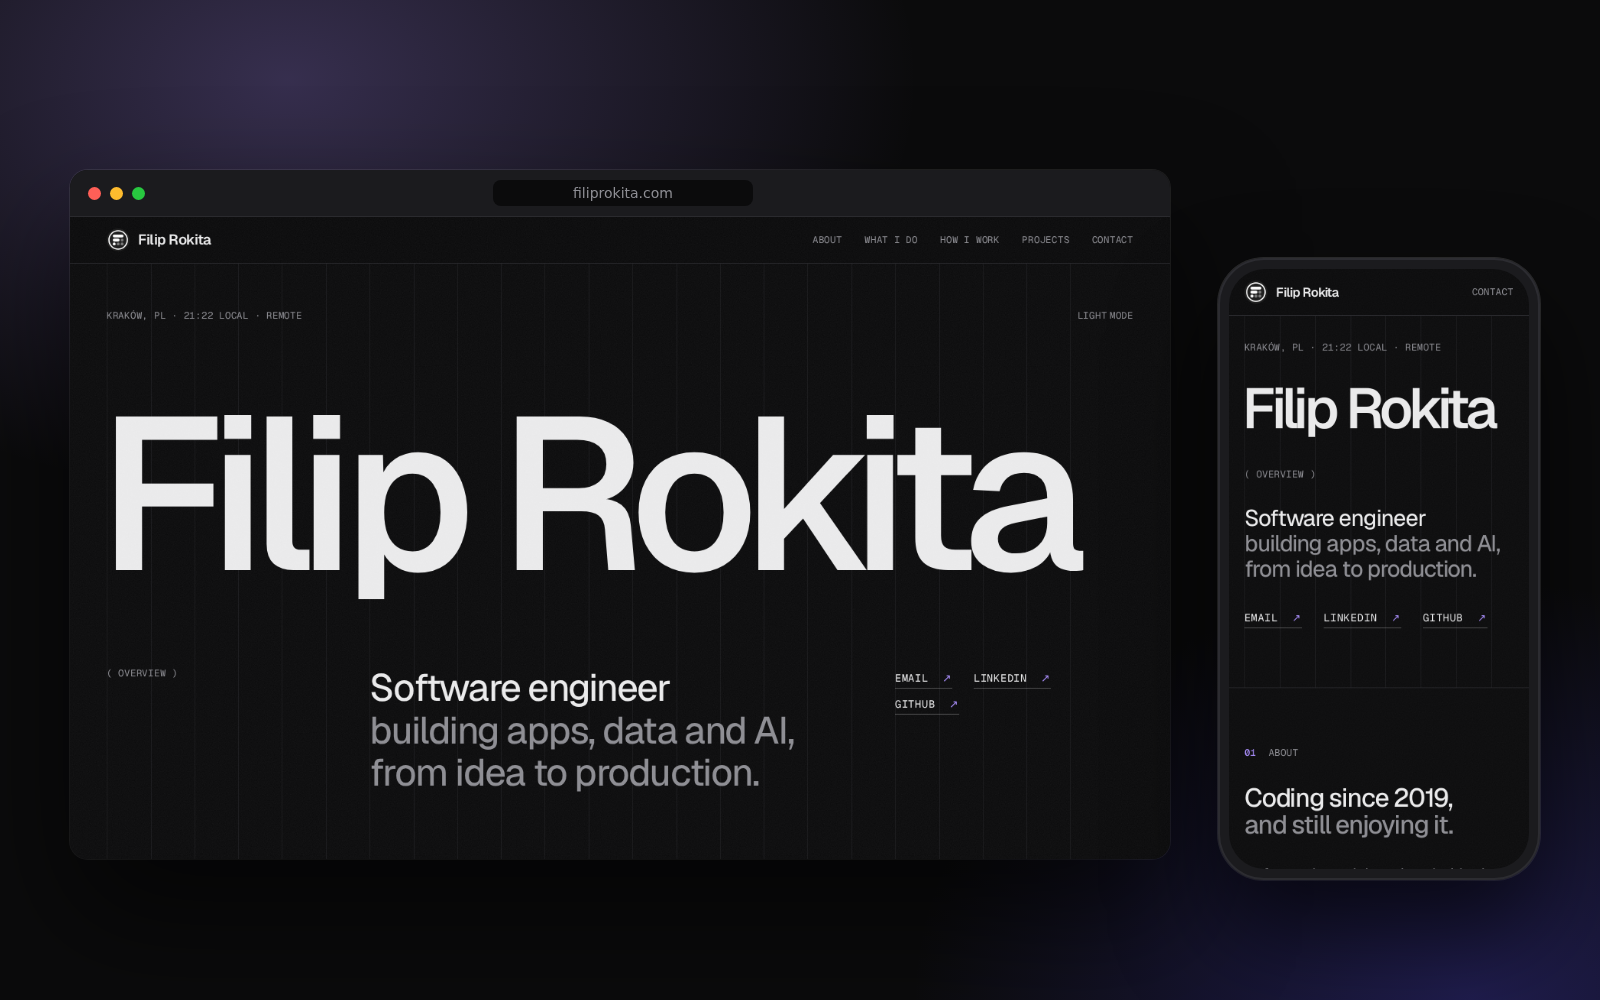
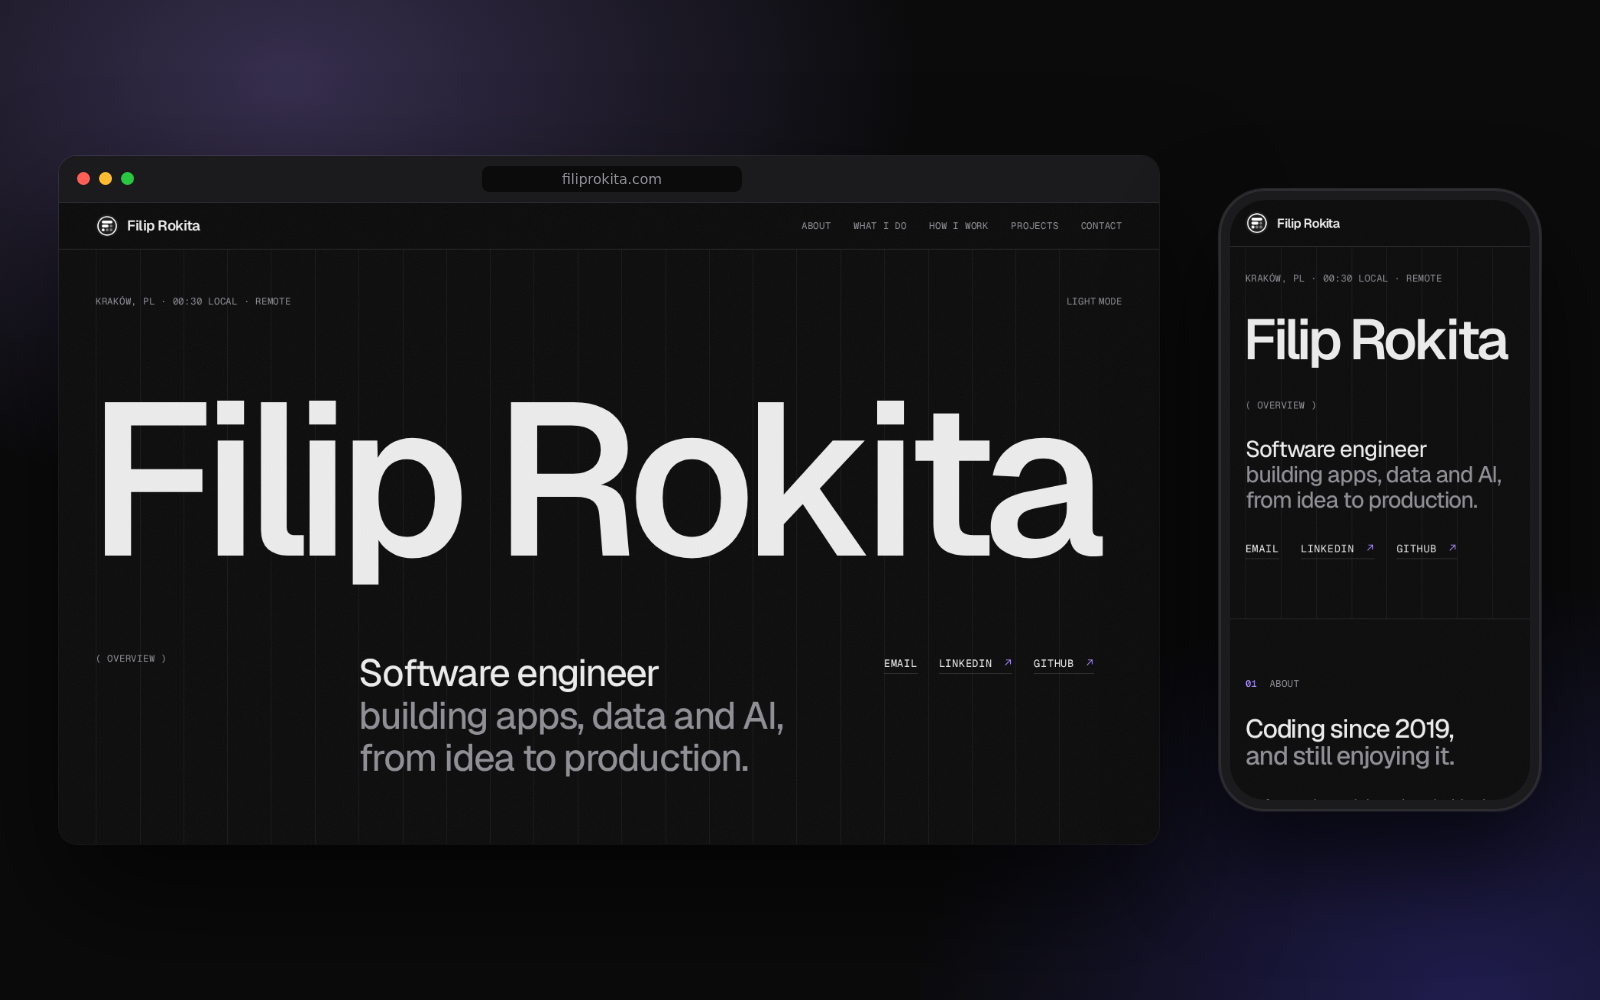
No menu on phones, shorter LinkedIn text
Phones show only the logo in the header. The LinkedIn link text is shorter. A stale comment is fixed.

diff --git a/e2e/shell.spec.ts b/e2e/shell.spec.ts
@@ -73,7 +73,7 @@ test.describe('without JavaScript', () => {
     await page.goto('/');
     await expect(page.getByRole('heading', { level: 1 })).toBeVisible();
     await expect(
-      page.getByRole('link', { name: 'Contact', exact: true }),
+      page.getByRole('link', { name: 'Email', exact: true }).first(),
     ).toBeVisible();
     for (const toggle of await page.locator('[data-theme-toggle]').all())
       await expect(toggle).toBeHidden();
@@ -106,19 +106,23 @@ test.describe('keyboard', () => {
 });
 
 test.describe('navigation', () => {
-  test('phones show only Contact, larger screens show every section', async ({
+  test('phones have no menu, larger screens show every section', async ({
     page,
   }, testInfo) => {
     await page.goto('/');
     const nav = page.getByRole('navigation', { name: 'Main' });
-    await expect(
-      nav.getByRole('link', { name: 'Contact', exact: true }),
-    ).toBeVisible();
-    const visible = testInfo.project.name === 'phone' ? 'hidden' : 'visible';
-    for (const name of ['About', 'What I do', 'How I work', 'Projects']) {
-      const link = nav.getByRole('link', { name });
-      if (visible === 'hidden') await expect(link).toBeHidden();
-      else await expect(link).toBeVisible();
+    if (testInfo.project.name === 'phone') {
+      await expect(nav).toBeHidden();
+      return;
+    }
+    for (const name of [
+      'About',
+      'What I do',
+      'How I work',
+      'Projects',
+      'Contact',
+    ]) {
+      await expect(nav.getByRole('link', { name, exact: true })).toBeVisible();
     }
   });
 });

diff --git a/design/preview.html b/design/preview.html
@@ -14,6 +14,11 @@
         height: 1000px;
         position: relative;
         overflow: hidden;
+        /* The browser window and the phone sit on one horizontal axis, centered. */
+        display: flex;
+        align-items: center;
+        justify-content: center;
+        gap: 60px;
         background:
           radial-gradient(
             900px 600px at 18% 8%,
@@ -29,9 +34,7 @@
         font-family: ui-sans-serif, system-ui, sans-serif;
       }
       .window {
-        position: absolute;
-        left: 70px;
-        top: 170px;
+        flex: none;
         width: 1100px;
         border-radius: 18px;
         overflow: hidden;
@@ -78,9 +81,7 @@
         width: 100%;
       }
       .phone {
-        position: absolute;
-        right: 60px;
-        bottom: 120px;
+        flex: none;
         width: 300px;
         border-radius: 46px;
         padding: 11px;

diff --git a/docs/design-system.md b/docs/design-system.md
@@ -131,7 +131,7 @@ focus ring style (`:focus-visible`), a faint static grain (not on phones, where 
 | Part | Where | Notes |
 | :--- | :--- | :--- |
 | Layout | `src/layouts/BaseLayout.astro` | Head, fonts, theme script, skip link, header, main, footer |
-| Header | `src/components/Header.astro` | Logo and nav. The nav marks the section in view. On phones only Contact is shown |
+| Header | `src/components/Header.astro` | Logo and nav. The nav marks the section in view. Phones have no menu, only the logo |
 | Footer | `src/components/Footer.astro` | Build date and commit, links, theme toggle |
 | Arrow | `src/components/Arrow.astro` | The one arrow icon (right, left, up-right): a thin SVG stroke with a sharp tip, so every arrow matches the site's lines |
 | Link | `src/components/Link.astro` | One cue at rest: the ↗ arrow on outbound links, a pale underline on links without one (`underlined` adds it to a link with an arrow, as in the hero). A violet line fills in from the left on hover |
